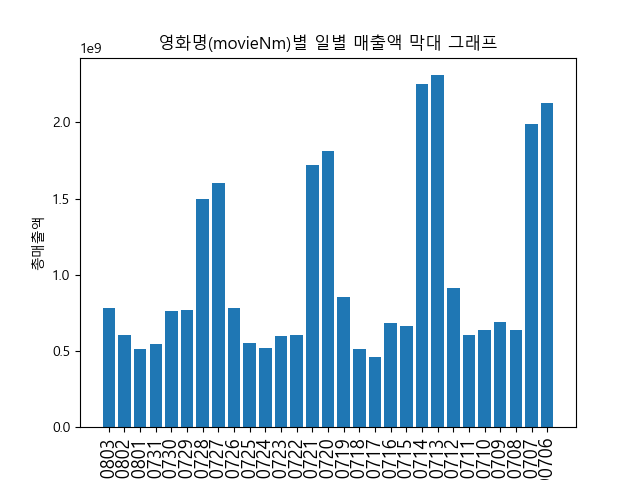
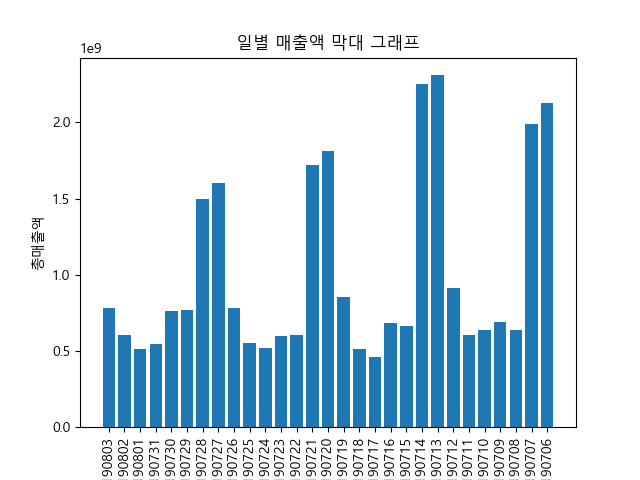
20190804SUN FINAL

Changed region(s): [[0.1562, 0.9062, 0.875, 1.0], [0.25, 0.0625, 0.6875, 0.125], [0.7188, 0.0625, 0.7812, 0.125]]

diff --git a/portfolio/app.py b/portfolio/app.py
@@ -227,7 +227,7 @@ def detail(m_no,current_movie_title):
         #plt.show()  
         url1="portfolio/static/img/wordcloud/" + current_movie_title + ".png"
         wordcloud.to_file(url1)
-    
+    '''
     kobis_info.info()
     
     #graph그리는것
@@ -243,7 +243,7 @@ def detail(m_no,current_movie_title):
     plt.xticks(fontsize=13, rotation=90)
     url1="portfolio/static/img/chart/" + current_movie_title + ".png"
     plt.savefig(url1) 
-    
+    '''
     return render_template('movie_detail.html', wordInfo=result, board=board, movieInfo=result1)
 
 

diff --git a/portfolio/kobis_graph.py b/portfolio/kobis_graph.py
@@ -14,7 +14,7 @@ def graph_m(title):
     plt.title('일별 매출액 막대 그래프')
     plt.xlabel('날짜')
     plt.ylabel('총매출액')
-    plt.xticks(fontsize=13, rotation=90)
+    plt.xticks(fontsize=10, rotation=90)
     url1="portfolio/static/img/chart/" + title + ".png"
     plt.savefig(url1)
 
